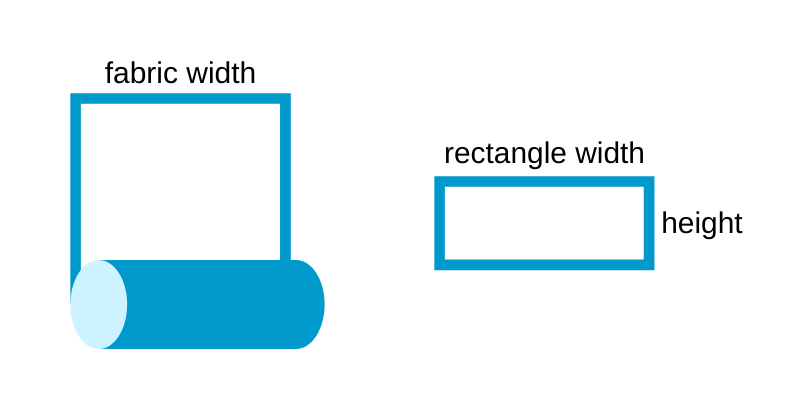
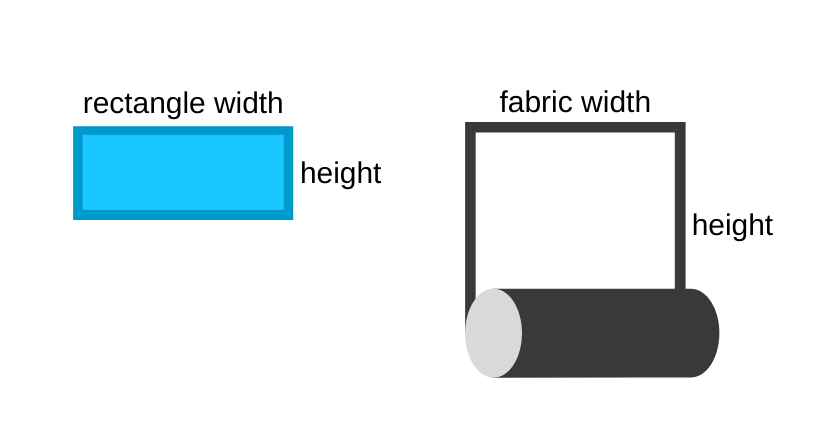
Color rects by size, edit wdith img

Changed region(s): [[0.0906, 0.1481, 0.483, 0.8593], [0.5434, 0.2074, 0.9358, 0.8593]]

diff --git a/index.html b/index.html
@@ -90,6 +90,12 @@
                     fabric_error_message.innerHTML = err;
                 }
 
+            // color boxes by size
+            const col_start = 35;
+            const col_end = 90;
+            const col_interval = Math.round((80-20)/n_box);
+
+
             let boxes = [];
             var i;
             for (i = 0; i < (n_box + 1); i++) {
@@ -113,8 +119,14 @@
                     // calculcate area and add to list of valid boxes
                     var box_a = box_w * box_h;
                     var bc;
+                    console.log(Number(i)*col_interval);
                     for(bc = 0; bc < box_c; bc += 1) {
-                        boxes.push({w: box_w, h: box_h, a: box_a});
+                        if (i == 0) {
+                            boxes.push({w: box_w, h: box_h, a: box_a, col: `hsl(195,100%,${col_start}%)`});
+                        } else {
+                            boxes.push({w: box_w, h: box_h, a: box_a, col: `hsl(195,100%,${i*col_interval + col_start}%)`});
+                        }
+                        
                     }
                     
                 }
@@ -176,7 +188,8 @@
                 ctx.beginPath();
 
                 // color 
-                ctx.fillStyle = `hsl(${Math.random() * 360}, 100%, 70%)`;
+                ctx.fillStyle = box.col;
+                console.log(box.col);
                 ctx.rect(box.x * r, box.y * r, box.w * r, box.h * r);
                 ctx.fill();
                 ctx.stroke();

diff --git a/js/pack.js b/js/pack.js
@@ -75,10 +75,6 @@ function potpack(boxes, fabric_width, fabric_height) {
 
                 if (space1.y === space2.y && space2.x === (space1.x + space1.w)) {
 
-                    console.log('space_pair start');
-                    console.log(space1);
-                    console.log(space2);
-
                     space2.x = Math.min(space1.x, space2.x);
                     space2.w = space1.w + space2.w;
                     spaces.splice(i$3, 1);

diff --git a/index.md b/index.md
@@ -34,6 +34,10 @@
             w.setAttribute("type", "number");
             h.setAttribute("type", "number");
             q.setAttribute("type", "number");
+            w.setAttribute("min", "1");
+            h.setAttribute("min", "1");
+            q.setAttribute("min", "1");
+            q.setAttribute("max", "100");
             w.setAttribute("onchange", "update();");
             h.setAttribute("onchange", "update();");
             q.setAttribute("onchange", "update();");
@@ -46,9 +50,6 @@
             w.setAttribute("oninput", "this.onchange();");
             h.setAttribute("oninput", "this.onchange();");
             q.setAttribute("oninput", "this.onchange();");
-            // w.setAttribute("placeholder", "Width");
-            // h.setAttribute("placeholder", "Height");
-            // q.setAttribute("placeholder", "Qty");
             e1.setAttribute("class", "nospace_msg");
             e2.setAttribute("class", "error_msg");
             s1.innerHTML = 'Width: ';
@@ -69,7 +70,6 @@
             r.appendChild(e1);
             r.appendChild(e2);
             document.getElementById("form-div").appendChild(r);
-
         }
 
 
@@ -90,6 +90,12 @@
                     fabric_error_message.innerHTML = err;
                 }
 
+            // color boxes by size
+            const col_start = 35;
+            const col_end = 90;
+            const col_interval = Math.round((80-20)/n_box);
+
+
             let boxes = [];
             var i;
             for (i = 0; i < (n_box + 1); i++) {
@@ -106,14 +112,21 @@
                     if(box_w < 1 || box_h < 1 || box_c < 1) throw "Minimum value is 1.";
                     if(box_w > fabric_width) throw "Width exceeds fabric width.";
                     if(!Number.isInteger(box_c)) throw "Number of rectangles must be a whole number.";
+                    if(box_c > 100) throw "Number of rectangles cannot exceed 100";
 
                     error_message.innerHTML = ``;
 
                     // calculcate area and add to list of valid boxes
                     var box_a = box_w * box_h;
                     var bc;
+                    console.log(Number(i)*col_interval);
                     for(bc = 0; bc < box_c; bc += 1) {
-                        boxes.push({w: box_w, h: box_h, a: box_a});
+                        if (i == 0) {
+                            boxes.push({w: box_w, h: box_h, a: box_a, col: `hsl(195,100%,${col_start}%)`});
+                        } else {
+                            boxes.push({w: box_w, h: box_h, a: box_a, col: `hsl(195,100%,${i*col_interval + col_start}%)`});
+                        }
+                        
                     }
                     
                 }
@@ -175,7 +188,8 @@
                 ctx.beginPath();
 
                 // color 
-                ctx.fillStyle = `hsl(${Math.random() * 360}, 100%, 70%)`;
+                ctx.fillStyle = box.col;
+                console.log(box.col);
                 ctx.rect(box.x * r, box.y * r, box.w * r, box.h * r);
                 ctx.fill();
                 ctx.stroke();
@@ -238,7 +252,7 @@
             <span>Height: </span>
             <input type="number" id="box_height0" min="1" value="8" onchange="update();" onkeyup="this.onchange();" onpaste="this.onchange();" oninput="this.onchange();"/>
             <span>Qty: </span>
-            <input type="number" id="box_count0" min="1" value="1" onchange="update();" onkeyup="this.onchange();" onpaste="this.onchange();" oninput="this.onchange();"/>
+            <input type="number" id="box_count0" min="1" max="100" value="1" onchange="update();" onkeyup="this.onchange();" onpaste="this.onchange();" oninput="this.onchange();"/>
             <span class="nospace_msg" id="nospace_msg0"></span>
             <p class="error_msg" id="error_msg0"></p>
             
